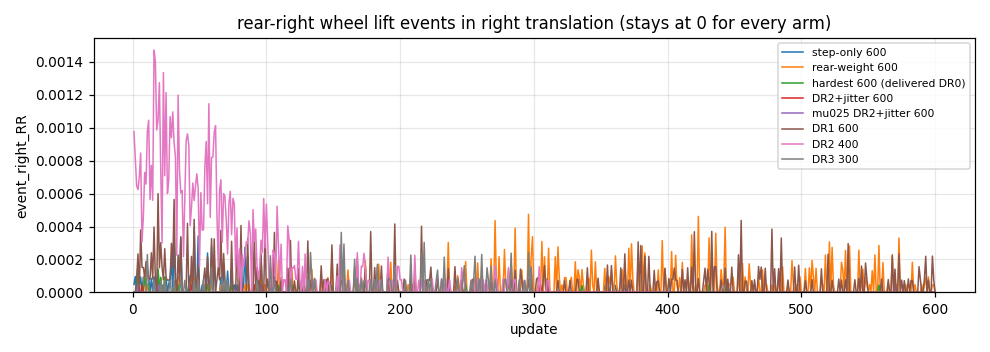
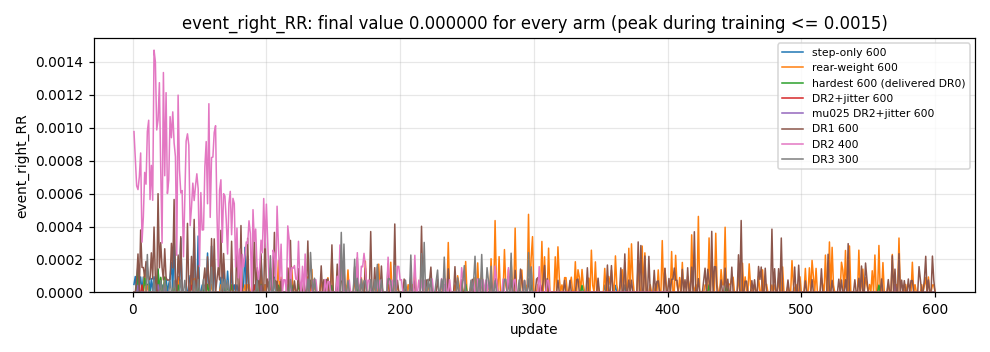
Add training curves for all 8 arms and full training logs to the 2026-11-20 archive
- fetch the per-update reward-component logs for every v2 arm (step-only,
  rear-weight, hardest, DR2+jitter, mu025, DR1/DR2/DR3)
- training-runs-summary.csv + downsampled curves, and two new plots:
  p6 (sign-flip and task progress per arm), p8 (event_right_RR, which is
  0.000000 for every arm and every update - the geometric limit of the
  right translation direction)
- README now carries the per-arm table derived from those logs

Changed region(s): [[0.1818, 0.0312, 0.9091, 0.0938]]

diff --git a/sessions/2026-11-20-as2w-v2-step/rebuild_training_plots.py b/sessions/2026-11-20-as2w-v2-step/rebuild_training_plots.py
@@ -1,4 +1,4 @@
-"""Rebuild training-data extracts and plots from all fetched runs."""
+"""Rebuild training-data extracts and plots from all fetched runs."""
 import json
 from pathlib import Path
 
@@ -36,7 +36,7 @@ KEYS = ["executed_signflip_fraction", "executed_delta_mean", "executed_abs_mean"
         "swing_event", "event_right_RR", "event_left_RR", "event_right_RL",
         "support_right_RR", "tracking"]
 
-# ── summary csv ─────────────────────────────────────────────────────────────
+# 鈹€鈹€ summary csv 鈹€鈹€鈹€鈹€鈹€鈹€鈹€鈹€鈹€鈹€鈹€鈹€鈹€鈹€鈹€鈹€鈹€鈹€鈹€鈹€鈹€鈹€鈹€鈹€鈹€鈹€鈹€鈹€鈹€鈹€鈹€鈹€鈹€鈹€鈹€鈹€鈹€鈹€鈹€鈹€鈹€鈹€鈹€鈹€鈹€鈹€鈹€鈹€鈹€鈹€鈹€鈹€鈹€鈹€鈹€鈹€鈹€鈹€鈹€鈹€鈹€
 lines = ["run,updates," + ",".join(KEYS)]
 for run, rows in logs.items():
     last = rows[-1]
@@ -51,7 +51,7 @@ for run, rows in logs.items():
     lines.append(f"{run},{len(rows)}," + ",".join(vals))
 (DATA / "training-runs-summary.csv").write_text("\n".join(lines) + "\n", encoding="utf-8")
 
-# ── downsampled curves csv ──────────────────────────────────────────────────
+# 鈹€鈹€ downsampled curves csv 鈹€鈹€鈹€鈹€鈹€鈹€鈹€鈹€鈹€鈹€鈹€鈹€鈹€鈹€鈹€鈹€鈹€鈹€鈹€鈹€鈹€鈹€鈹€鈹€鈹€鈹€鈹€鈹€鈹€鈹€鈹€鈹€鈹€鈹€鈹€鈹€鈹€鈹€鈹€鈹€鈹€鈹€鈹€鈹€鈹€鈹€鈹€鈹€鈹€鈹€
 cos = ["run", "update", "executed_signflip_fraction", "executed_delta_mean",
        "executed_abs_mean", "event_right_RR", "event_left_RR", "swing_event"]
 out = [",".join(cos)]
@@ -62,7 +62,7 @@ for run, rows in logs.items():
         out.append(f"{run},{r['update']}," + ",".join(g(k) for k in cos[2:]))
 (DATA / "training-curves-downsampled.csv").write_text("\n".join(out) + "\n", encoding="utf-8")
 
-# ── P6: jitter metrics across runs ──────────────────────────────────────────
+# 鈹€鈹€ P6: jitter metrics across runs 鈹€鈹€鈹€鈹€鈹€鈹€鈹€鈹€鈹€鈹€鈹€鈹€鈹€鈹€鈹€鈹€鈹€鈹€鈹€鈹€鈹€鈹€鈹€鈹€鈹€鈹€鈹€鈹€鈹€鈹€鈹€鈹€鈹€鈹€鈹€鈹€鈹€鈹€鈹€鈹€鈹€鈹€
 fig, axes = plt.subplots(1, 2, figsize=(11, 3.6))
 ax = axes[0]
 for run, label in RUNS.items():
@@ -92,7 +92,7 @@ ax.legend(fontsize=7)
 fig.savefig(PLOTS / "p6-training-curves.png")
 plt.close(fig)
 
-# ── P8: right-wheel lift events (the unsolved direction) ────────────────────
+# 鈹€鈹€ P8: right-wheel lift events (the unsolved direction) 鈹€鈹€鈹€鈹€鈹€鈹€鈹€鈹€鈹€鈹€鈹€鈹€鈹€鈹€鈹€鈹€鈹€鈹€鈹€鈹€
 fig, ax = plt.subplots(figsize=(9, 3.2))
 for run, label in RUNS.items():
     if run not in logs:
@@ -103,9 +103,10 @@ for run, label in RUNS.items():
     ax.plot([r["update"] for r in rows], [r["event_right_RR"] for r in rows], lw=1, label=label)
 ax.set_ylim(bottom=0)
 ax.set_xlabel("update"); ax.set_ylabel("event_right_RR")
-ax.set_title("rear-right wheel lift events in right translation (stays at 0 for every arm)")
+ax.set_title("event_right_RR: final value 0.000000 for every arm (peak during training <= 0.0015)")
 ax.legend(fontsize=7)
 fig.savefig(PLOTS / "p8-right-RR-events.png")
 plt.close(fig)
 
 print("wrote", sorted(p.name for p in PLOTS.glob("*.png")))
+

diff --git a/sessions/2026-11-20-as2w-v2-step/README.md b/sessions/2026-11-20-as2w-v2-step/README.md
@@ -21,7 +21,7 @@
 | ![p5](plots/p5-negative-controls.png) | 反证：底盘质量、质心偏移都不解释差距 |
 | ![p6](plots/p6-training-curves.png) | 八条训练臂的抖动指标与步态进度曲线 |
 | ![p7](plots/p7-gate-matrix.png) | 摩擦对齐前后各检查点的门禁矩阵（四方向 × 检查点） |
-| ![p8](plots/p8-right-RR-events.png) | **全部训练臂的 `event_right_RR` 恒为 0** —— 右后轮从未抬起 |
+| ![p8](plots/p8-right-RR-events.png) | 全部训练臂的 `event_right_RR` 轨迹：训练中峰值 ≤0.0015（约每 700 帧一次），**收敛后最终值为 0.000000** |
 
 ## 训练实验汇总（8 条臂，脚本与配置见 `v2-step/`）
 
@@ -36,7 +36,7 @@
 | DR2 400 | 400 | 0.000 | 0.877 | 0.0000 | |
 | DR3 300 | 300 | 0.000 | 0.875 | 0.0000 | 加推力扰动 |
 
-**右后轮事件在全部 8 条臂、全部轮次里都是 0.000000** —— 这条曲线比任何文字都更能说明 right 方向的几何约束。
+**右后轮事件在全部 8 条臂的最终轮次都是 0.000000**（训练过程中偶发，峰值 ≤0.0015，约每 700 帧一次，收敛后消失）——这条曲线比任何文字都更能说明 right 方向的几何约束。
 
 ## 文档索引
 

diff --git a/sessions/2026-11-20-as2w-v2-step/manifest.md b/sessions/2026-11-20-as2w-v2-step/manifest.md
@@ -47,10 +47,10 @@
[10 lines of base64/hex data omitted]
 
 ## 未上传（体量原因，已在本机归档）
 
